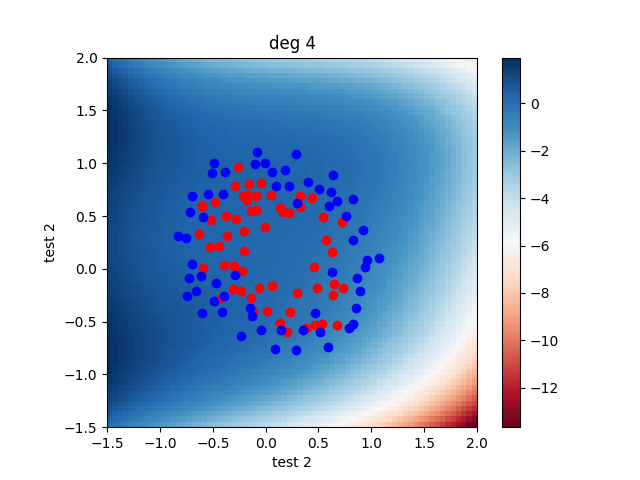
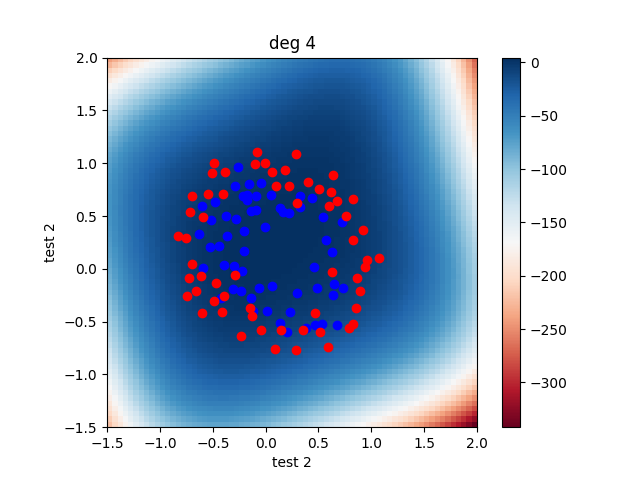
moon

diff --git a/algorithms/base.h b/algorithms/base.h
@@ -42,9 +42,9 @@ double logisticCost(const mat& X, const mat& y, const mat& parameters)
     int m = X.n_rows;
     for (int i = 0; i < m; i++)
     {
-        double temp = as_scalar(X.row(i) * parameters);
+        double z = as_scalar(X.row(i) * parameters);
 
-        loss -= y[i] * log(sigmoid(temp)) + (1 - y[i]) * log(1 - sigmoid(temp));
+        loss -= y[i] * log(sigmoid(-z)) + (1 - y[i]) * log(1 - sigmoid(-z));
     }
 
     return loss / m;
@@ -58,7 +58,17 @@ mat logisticGradient(const mat& X, const mat& y, const mat& parameters)
 
 }
 
-
+// mat logisticHessian(const mat& X, const mat& y, const mat& parameters)
+// {
+//     int m = y.n_rows;
+//     mat D(m, m); D.zeros();
+//     for (int i = 0; i < m; i++) 
+//     {
+//         double z = as_scalar(X.row(i) * parameters);
+//         D(i, i) = ;
+//     }
+//     return X * trans(X) * phi * (1 - phi);
+// }
 double armijo(const mat& X, const mat& y, const mat& parameters, mat gradient, double computeCost(const mat& X, const mat& y, const mat& parameters)
              ) {
     // Armijo Hyperparameters
@@ -99,7 +109,7 @@ void csv_to_xy(string training_data, vector<string> x_labels, string y_label , m
     {
         X(j, 0) = 1;
         for (int i = 0; i < n; i++) {
-            X(j, i+1) = c[i][j];
+            X(j, i + 1) = c[i][j];
         }
     }
 

diff --git a/algorithms/GradientDescent.h b/algorithms/GradientDescent.h
@@ -15,10 +15,10 @@ void gradientDescent(const mat&    X,
 	int m, n;
 	m = y.n_rows;
 	n = X.n_cols;
-	
-	parameters.reshape(n,1);
-	parameters.zeros();
-	
+
+	parameters.reshape(n, 1);
+	parameters.randu();
+
 	mat gradient(n, 1), error;
 	gradient.ones();
 
@@ -29,15 +29,15 @@ void gradientDescent(const mat&    X,
 	mat testing_y = y.rows(training_size, m - 1);
 
 	vector<double> training_error_history , testing_error_history;
+	double alpha = atof(step.c_str());
 	do
 	{
 		it++; _parameters = parameters;
 
 		gradient = computeGradient(X, y, parameters) ;
 
-		double  alpha;
+
 		if (step == "armijo") alpha =  armijo(X, y, parameters, gradient, computeCost);
-		else alpha = atof(step.c_str());
 
 
 		parameters = parameters - alpha * gradient ;
@@ -65,6 +65,8 @@ void gradientDescent(const mat&    X,
 			// when escape is pressed
 			if (int(ch) == 27)
 				break;
+			if (ch == '+')alpha *= 2;
+			if (ch == '-')alpha /= 2;
 
 		}
 

diff --git a/main4_.cpp b/main4_.cpp
@@ -36,7 +36,7 @@ mat transformation(mat x, int np)
 
 			pair<int, int> ppqq = pq[j];
 			int p = ppqq.first , q = ppqq.second;
-			X(i, j) = pow(x[1], p) * pow(x[2], q);
+			X(i, j) = pow(x(i,1), p) * pow(x(i,2), q);
 		}
 	}
 	return X;
@@ -57,9 +57,9 @@ int main(int argc, char const *argv[])
 
 	X= transformation(X,np);
 
-	X.print("new X");
+	// X.print("new X");
 
-	gradientDescent(X, y, theta, logisticCost, logisticGradient, "Nonlinear-Q" + to_string(np), "armijo") ;
+	gradientDescent(X, y, theta, logisticCost, logisticGradient, "Nonlinear-Q" + to_string(np), "0.1") ;
 
 	theta.print("Theta found :");
 	return 0;

diff --git a/main2.2_binary.cpp b/main2.2_binary.cpp
@@ -11,7 +11,7 @@ int main(int argc, char const *argv[])
 {
 
 	mat X, y ,theta;
-	csv_to_xy("data/binary.csv", {"admit" ,"gre" ,"gpa"}, "rank", X, y);
+	csv_to_xy("data/binary.csv", {"gre" ,"gpa"}, "admit", X, y);
 
 
 	// Fist case :theta initialized by zeros
@@ -25,7 +25,7 @@ int main(int argc, char const *argv[])
 
 	// X.print("X :");
 
-	gradientDescent(X, y, theta,logisticCost, logisticGradient, "binary_zero","0.001") ;
+	gradientDescent(X, y, theta,logisticCost, logisticGradient, "binary_zero+rank","0.01") ;
 
 
 	theta.print("Theta found by logistic gradient descent") ;
